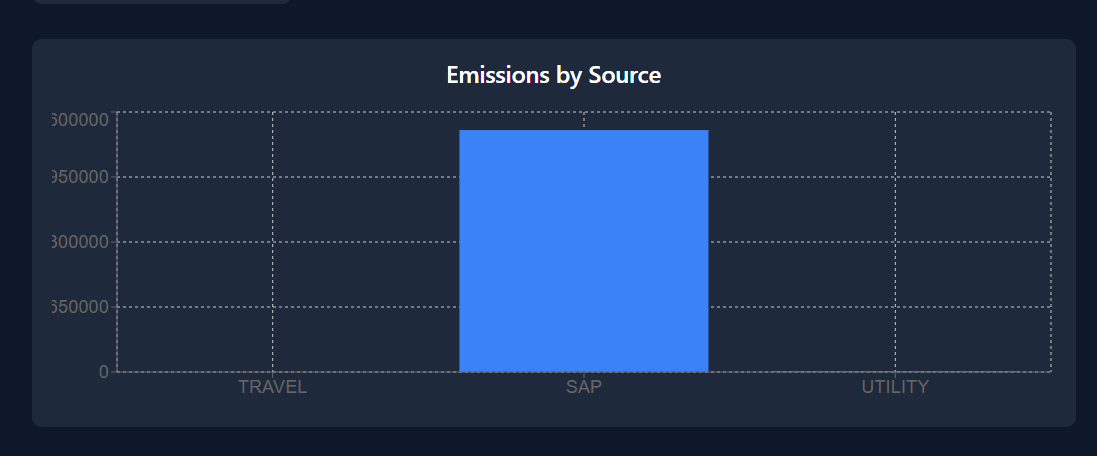
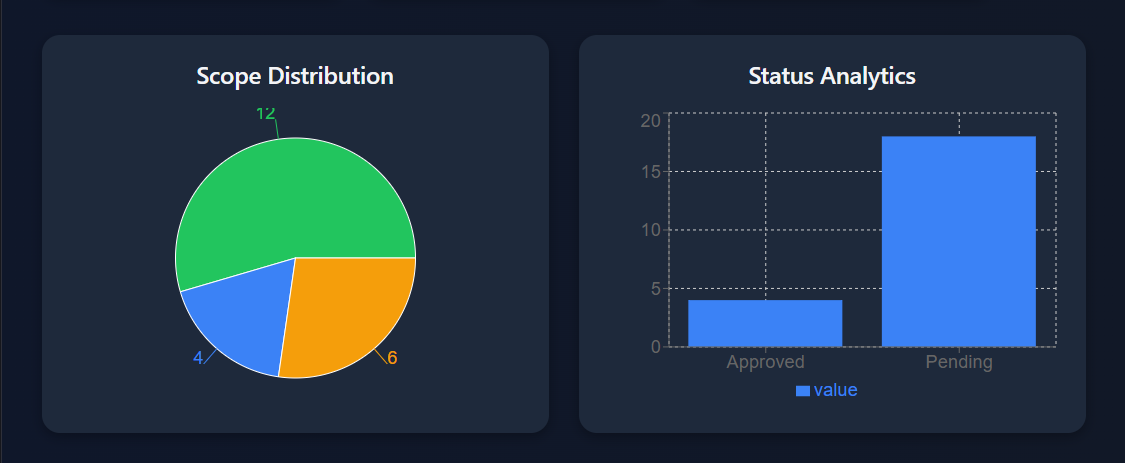
Redesigned screenshots

diff --git a/README.md b/README.md
@@ -257,27 +257,16 @@ npm run dev
 
 ---
 
-## ESG Dashboard View
-
-![Dashboard2](screenshots/dashboard2.png)
-
----
 
 ## Records Table View 1
 
-![Table1](screenshots/table1.png)
+![Table1](screenshots/table.png)
 
 ---
 
 ## Records Table View 2
 
-![Table2](screenshots/table2.png)
-
----
-
-## Records Table View 3
-
-![Table3](screenshots/table3.png)
+![Table2](screenshots/table1.png)
 
 
 # Future Improvements